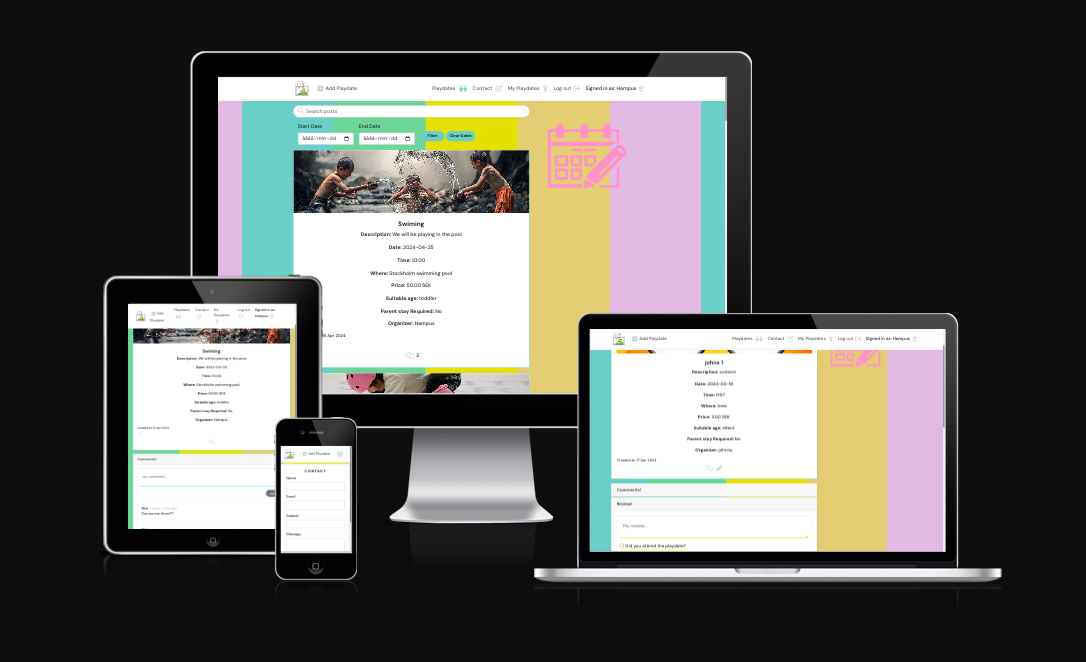
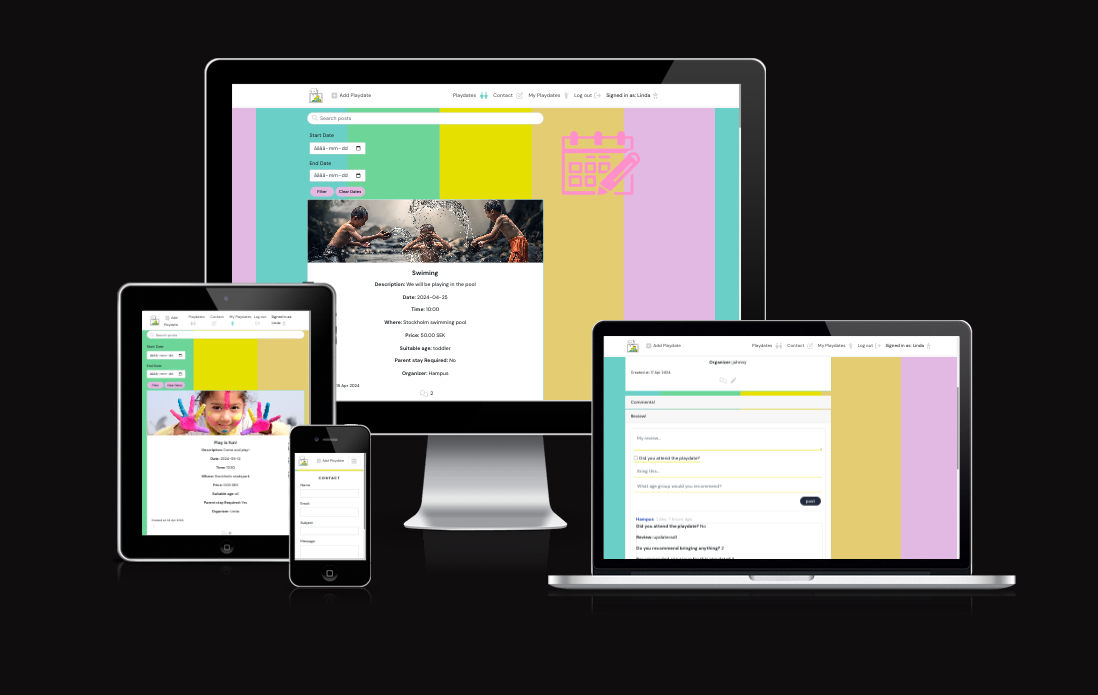
<doc>[testing]add responsiv tests

Changed region(s): [[0.0912, 0.0604, 0.942, 0.9063]]

diff --git a/TESTING.md b/TESTING.md
@@ -1,4 +1,4 @@
-# Dadjokes
+# Playdate
 
 
 This file only contains the exstensive testing done to the webpage. All other information regarding the site will be found in [README](README.md).
@@ -15,24 +15,24 @@ Here are screenshots of the responsive design, both as login and not loged in.
 <summary> Desktop/Laptop
 </summary>
 
-![Desktop/Laptop](documentation/readme_img/laptop-login.png)
-![Desktop/Laptop](documentation/readme_img/laptop.png)
+![Desktop/Laptop](documentation/testing/responsiv/desktopNotSignIn.png)
+![Desktop/Laptop](documentation/testing/responsiv/desktopSignIn.png)
 </details>
 
 <details>
 <summary> Tablet
 </summary>
 
-![Tablet](documentation/readme_img/tablet-login.png)
-![Tablet](documentation/readme_img/tablet.png)
+![Tablet](documentation/testing/responsiv/tabletNotSignIn.png)
+![Tablet](documentation/testing/responsiv/tabletSignIn.png)
 </details>
 
 <details>
 <summary> Mobile
 </summary>
 
-![Mobile](documentation/readme_img/mobil-login.png)
-![Mobile](documentation/readme_img/mobil.png)
+![Mobile](documentation/testing/responsiv/mobileNotSignIn.png)
+![Mobile](documentation/testing/responsiv/mobilSignIn.png)
 </details>
 
 ## Browser and device Compatibility Testing
@@ -67,94 +67,6 @@ The webpage was tested on different webbrowsers to ensur a good experience for t
 </details>
 
 ## Code Validation
-
-### HTML 
-Testing made trough W3 Validator. All pages got one error (see below). But other then that it looks good.
-![Error](documentation/validation/w3validator/parse_error.png)
-
-<details>
-<summary> Home/index.html
-</summary>
-
-![Home/index.html](documentation/validation/w3validator/w3validator_index.png)
-</details>
-
-<details>
-<summary> Jokes/the_jokes.html
-</summary>
-
-![the_jokes.html](documentation/validation/w3validator/w3validator_jokes.png)
-</details>
-
-<details>
-<summary> Jokes/jokes_detail.html
-</summary>
-
-![jokes_detail.html](documentation/validation/w3validator/w3validator_jokes_detail.png)
-</details>
-
-<details>
-<summary> Categories/category.html
-</summary>
-
-![category.html](documentation/validation/w3validator/w3validator_category.png)
-</details>
-
-<details>
-<summary> Add joke/add_joke.html
-</summary>
-
-![add_joke.html](documentation/validation/w3validator/w3validator_addjoke.png)
-</details>
-
-<details>
-<summary> Edit joke/edit_joke.html
-</summary>
-
-![edit_joke.html](documentation/validation/w3validator/w3validator_editjoke.png)
-</details>
-
-<details>
-<summary> Contact/contact.html
-</summary>
-
-![contact.html](documentation/validation/w3validator/w3validator_contact.png)
-</details>
-
-<details>
-<summary> Login/login.html
-</summary>
-
-![login.html](documentation/validation/w3validator/w3validator_login.png)
-</details>
-
-<details>
-<summary> Logout/logout.html
-</summary>
-
-![logout.html](documentation/validation/w3validator/w3validator_logout.png)
-</details>
-
-<details>
-<summary> Registrere/signup.html
-</summary>
-
-![signup.html](documentation/validation/w3validator/w3validator_registrer.png)
-</details>
-
-<details>
-<summary> Error 404/404.html
-</summary>
-
-![404.html](documentation/validation/w3validator/w3validator_404.png)
-</details>
-
-<details>
-<summary> Error 500/500.html
-</summary>
-
-![500.html](documentation/validation/w3validator/w3validator_500.png)
-</details>
 
 ### CSS
 
